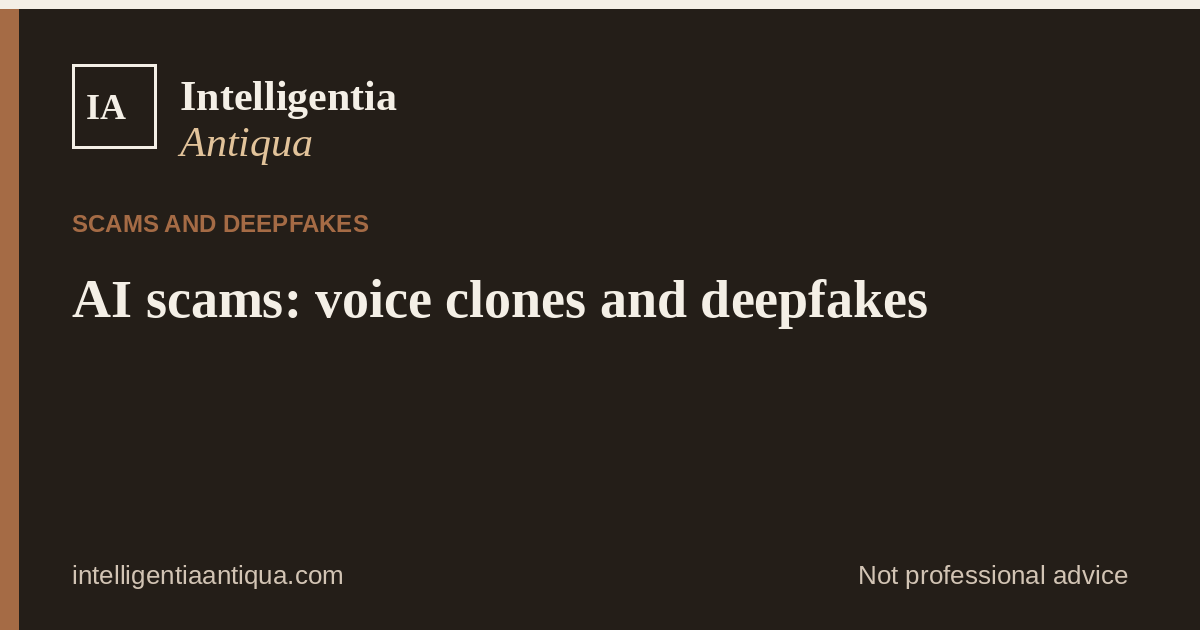
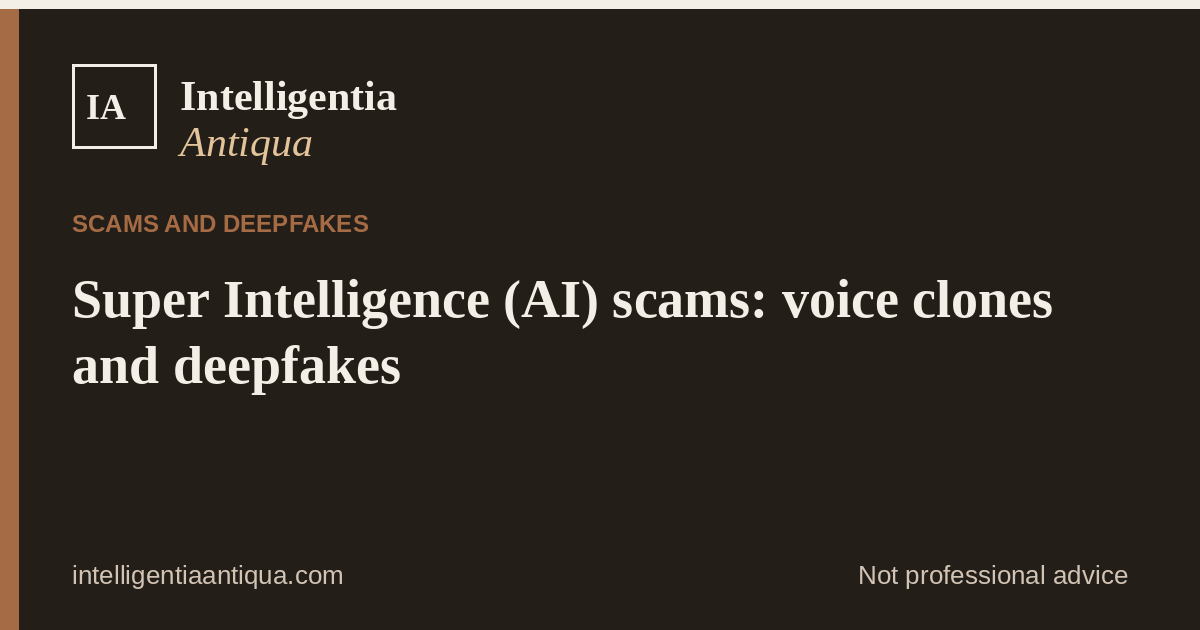
Lead the site with Super Intelligence (SI), still widely called AI. (#4)
Executive Order 14434 tells federal agencies to use SI for the statutory AI category. Visible copy, titles, and the glossary follow that name. URLs, quotations, source titles, and the Family AI Safety Kit name stay as they are.

Changed region(s): [[0.0617, 0.4222, 0.8942, 0.5127], [0.0617, 0.5429, 0.3392, 0.6333]]

diff --git a/src/data/glossary.ts b/src/data/glossary.ts
@@ -42,8 +42,9 @@ export const glossary: GlossaryTerm[] = [
     sourceTitle: oecd,
     sourceUrl: oecdUrl,
     related: [
-      { label: 'What is AI, in plain English?', href: '/articles/what-is-ai/' },
-      { label: 'AI Basics', href: '/pillars/ai-basics/' },
+      { label: 'Super Intelligence (SI)', href: '/glossary/#super-intelligence' },
+      { label: 'What is Super Intelligence (AI)?', href: '/articles/what-is-ai/' },
+      { label: 'Super Intelligence (AI)', href: '/pillars/ai-basics/' },
     ],
   },
   {
@@ -53,7 +54,7 @@ export const glossary: GlossaryTerm[] = [
       'The International AI Safety Report 2026 defines automation bias as the tendency to rely on automated systems, including AI systems, without enough scrutiny of their outputs.',
     sourceTitle: report,
     sourceUrl: reportUrl,
-    related: [{ label: 'How to use an AI assistant safely', href: '/articles/how-to-use-an-ai-assistant/' }],
+    related: [{ label: 'How to use a Super Intelligence (AI) assistant safely', href: '/articles/how-to-use-an-ai-assistant/' }],
   },
   {
     id: 'confabulation',
@@ -62,7 +63,7 @@ export const glossary: GlossaryTerm[] = [
       'NIST’s Generative AI Profile defines confabulation as the production of confidently stated but erroneous or false content. People also call this hallucination or fabrication. NIST notes that those everyday words can make a machine sound human, which is its own risk.',
     sourceTitle: nist,
     sourceUrl: nistUrl,
-    related: [{ label: 'What is AI, in plain English?', href: '/articles/what-is-ai/' }],
+    related: [{ label: 'What is Super Intelligence (AI)?', href: '/articles/what-is-ai/' }],
   },
   {
     id: 'deepfake',
@@ -72,7 +73,7 @@ export const glossary: GlossaryTerm[] = [
     sourceTitle: report,
     sourceUrl: reportUrl,
     related: [
-      { label: 'AI scams: voice clones and deepfakes', href: '/articles/ai-scams-voice-clones-and-deepfakes/' },
+      { label: 'Super Intelligence (AI) scams: voice clones and deepfakes', href: '/articles/ai-scams-voice-clones-and-deepfakes/' },
     ],
   },
   {
@@ -82,7 +83,7 @@ export const glossary: GlossaryTerm[] = [
       'The International AI Safety Report 2026 uses “general-purpose AI” for models or systems that can perform a variety of tasks, rather than being built for one specific function. A chess-only program is the contrast: the report calls that narrow AI.',
     sourceTitle: report,
     sourceUrl: reportUrl,
-    related: [{ label: 'AI Basics', href: '/pillars/ai-basics/' }],
+    related: [{ label: 'Super Intelligence (AI)', href: '/pillars/ai-basics/' }],
   },
   {
     id: 'generative-ai',
@@ -91,7 +92,7 @@ export const glossary: GlossaryTerm[] = [
       'The International AI Safety Report 2026 defines generative AI as AI that can create new content, such as text, images, or audio, by learning patterns from existing data and producing outputs that reflect those patterns.',
     sourceTitle: report,
     sourceUrl: reportUrl,
-    related: [{ label: 'What is AI, in plain English?', href: '/articles/what-is-ai/' }],
+    related: [{ label: 'What is Super Intelligence (AI)?', href: '/articles/what-is-ai/' }],
   },
   {
     id: 'hallucination',
@@ -127,7 +128,7 @@ export const glossary: GlossaryTerm[] = [
       'The International AI Safety Report 2026 defines machine learning as a subset of AI focused on developing algorithms and models that learn from data without being explicitly programmed for each case.',
     sourceTitle: report,
     sourceUrl: reportUrl,
-    related: [{ label: 'AI Basics', href: '/pillars/ai-basics/' }],
+    related: [{ label: 'Super Intelligence (AI)', href: '/pillars/ai-basics/' }],
   },
   {
     id: 'model',
@@ -136,7 +137,7 @@ export const glossary: GlossaryTerm[] = [
       'In the same report, a model is a computer program that processes inputs to perform tasks such as prediction, classification, or generation. Most models today learn from data rather than being written as a list of hand-made rules. A system is the model plus the other pieces around it, such as a chat window.',
     sourceTitle: report,
     sourceUrl: reportUrl,
-    related: [{ label: 'What is AI, in plain English?', href: '/articles/what-is-ai/' }],
+    related: [{ label: 'What is Super Intelligence (AI)?', href: '/articles/what-is-ai/' }],
   },
   {
     id: 'narrow-ai',
@@ -161,7 +162,21 @@ export const glossary: GlossaryTerm[] = [
       'The International AI Safety Report 2026 defines a prompt as an input to an AI system, such as text or an image, that the system processes to generate an output.',
     sourceTitle: report,
     sourceUrl: reportUrl,
-    related: [{ label: 'How to use an AI assistant safely', href: '/articles/how-to-use-an-ai-assistant/' }],
+    related: [{ label: 'How to use a Super Intelligence (AI) assistant safely', href: '/articles/how-to-use-an-ai-assistant/' }],
+  },
+  {
+    id: 'super-intelligence',
+    term: 'Super Intelligence (SI)',
+    definition:
+      'Executive Order 14434, “Inaugurating the Era of Super Intelligence,” was signed on 29 September 2026 and published in the Federal Register on 2 October 2026 at 91 FR 63129. It directs executive departments and agencies, to the maximum extent permitted by law, to use “Super Intelligence” and “SI” in place of “Artificial Intelligence” and “AI” in official correspondence, public communications, websites, reports, policy documents, and other non-statutory documents. For purposes of the order, those terms mean the technologies and systems encompassed by “artificial intelligence” as defined in 15 U.S.C. § 9401(3). That definition governs the order unless a later presidential action or an Act of Congress supersedes it. Section 2 gives the instruction to those agencies. A different research use of a similar word is explained on the Safety Debates page.',
+    sourceTitle: 'Executive Order 14434 of September 29, 2026: Inaugurating the Era of Super Intelligence',
+    sourceUrl:
+      'https://www.federalregister.gov/documents/2026/10/02/2026-20321/inaugurating-the-era-of-super-intelligence',
+    related: [
+      { label: 'What is Super Intelligence (AI)?', href: '/articles/what-is-ai/' },
+      { label: 'Safety Debates', href: '/pillars/safety-debates/' },
+      { label: 'Artificial intelligence', href: '/glossary/#artificial-intelligence' },
+    ],
   },
   {
     id: 'training',

diff --git a/src/data/pillars.ts b/src/data/pillars.ts
@@ -1,24 +1,24 @@
 export const pillars = [
   {
     id: 'ai-basics',
-    title: 'AI Basics',
+    title: 'Super Intelligence (AI)',
     summary: 'What the machine actually is, which words earn their keep, and which pitches do not.',
     description:
-      'Plain-English explanations of artificial intelligence, models, and the words beginners meet first.',
+      'Plain-English explanations of Super Intelligence (SI), still widely called AI, plus models and the words beginners meet first.',
   },
   {
     id: 'using-assistants',
     title: 'Using Assistants',
     summary: 'Use the tool. Do not hand it your judgment.',
     description:
-      'A beginner guide to ChatGPT-style assistants: what to ask, what to leave out, and how to check a reply.',
+      'A beginner guide to ChatGPT-style assistants: what to ask, what to leave out, and how to check a Super Intelligence (AI) reply.',
   },
   {
     id: 'privacy-and-data',
     title: 'Privacy & Data',
     summary: 'What you type can outlive the chat. The settings are yours to flip.',
     description:
-      'What consumer AI apps may do with chats, and the habits that keep private information out of the box.',
+      'What a chat with Super Intelligence (SI), still called AI, may do with your words, and the habits that keep private information out of the box.',
   },
   {
     id: 'scams-and-deepfakes',
@@ -37,9 +37,10 @@ export const pillars = [
   {
     id: 'safety-debates',
     title: 'Safety Debates',
-    summary: 'The loud word is superintelligence. The careful report uses tighter ones, and experts still disagree.',
+    summary:
+      'The executive order’s Super Intelligence is today’s statutory AI. Research superintelligence is a hypothetical system beyond human performance.',
     description:
-      'A fair account of advanced-AI debates, using the terms in the International AI Safety Report.',
+      'How Executive Order 14434 uses Super Intelligence for today’s AI, and how research uses superintelligence for a hypothetical system no human can match.',
   },
 ] as const;
 

diff --git a/src/data/site.ts b/src/data/site.ts
@@ -7,7 +7,7 @@ export const site = {
   tagline: 'Your mind. The source in the margin.',
   founder: 'Creator Rogenie',
   description:
-    'Intelligentia Antiqua explains artificial intelligence in plain English for beginners, with a source on every factual claim.',
+    'Intelligentia Antiqua explains Super Intelligence (SI), still widely called AI, in plain English for beginners, with a source on every factual claim.',
   email: 'hello@intelligentiaantiqua.com',
   repo: 'https://github.com/rogenie/intelligentiaantiqua-site',
   author: 'Intelligentia Antiqua Research Desk',

diff --git a/scripts/generate-og.py b/scripts/generate-og.py
@@ -88,7 +88,7 @@ def mark(size, dest):
 
 
 PILLARS = {
-    "ai-basics": "AI basics",
+    "ai-basics": "SI basics",
     "using-assistants": "Using assistants",
     "privacy-and-data": "Privacy and data",
     "scams-and-deepfakes": "Scams and deepfakes",
@@ -116,7 +116,7 @@ def articles():
 
 
 def main():
-    card("AI, without the pitch.", "Plain English. Source attached.", OG / "default.png")
+    card("Super Intelligence, without the pitch.", "SI, still widely called AI.", OG / "default.png")
     for title, slug, pillar in articles():
         card(title, pillar, OG / f"{slug}.png")
     public = ROOT / "public"

diff --git a/docs/brand-voice.md b/docs/brand-voice.md
@@ -36,6 +36,14 @@ The design stays classical: stone, parchment, serif type. It should also feel el
 
 The themes to return to, when they are true to the source: owning your time, your choices, and your mind. An assistant does not get to spend those for you. A pitch does not get to rush you.
 
+## Terminology
+
+Lead with Super Intelligence (SI). On the first mention on a page, write “Super Intelligence (SI), still widely called AI,” then say SI. Keep AI in titles a searcher would type, as in “What is Super Intelligence (AI)?” Use AI again when the sentence is about a source’s own word, a product name, or a quotation. Do not change URLs or slugs.
+
+The name follows [Executive Order 14434](https://www.federalregister.gov/documents/2026/10/02/2026-20321/inaugurating-the-era-of-super-intelligence), “Inaugurating the Era of Super Intelligence,” signed 29 September 2026 and published in the Federal Register on 2 October 2026 (FR Doc. 2026-20321, 91 FR 63129). The order tells federal executive agencies to use SI instead of AI, to the maximum extent permitted by law, in official non-statutory documents. For the order, SI means the systems already covered by “artificial intelligence” in 15 U.S.C. § 9401(3). The instruction is to those agencies. It does not require private companies to rename products or stop saying AI. [TechRepublic’s account](https://www.techrepublic.com/article/news-trump-super-intelligence-ai-executive-order/) is the secondary source for that private-company limit. Link the order when a page states those facts.
+
+Do not use the order’s term for the research idea. In research, superintelligence (often one word, or “artificial superintelligence”) means a hypothetical system beyond human performance. The order’s SI is the statutory category, the systems already called AI. Say that split on any page about the debate, and cite both the order and a research source. Do not alter a quotation, a source’s title, or a product name to force the new term. The Family AI Safety Kit stays the product name. ChatGPT stays ChatGPT.
+
 ## What a guide is allowed to sound like
 
 - Opening: a real moment, then the point, in her cadence.

diff --git a/docs/content-calendar.md b/docs/content-calendar.md
@@ -8,7 +8,7 @@ The three launch guides are already in the repo: what AI is, how to use an assis
 
 | Day | Guide | Pillar | Why this one |
 | --- | --- | --- | --- |
-| Mon 23 Nov 2026 | What machine learning is, without the math | AI Basics | The glossary defines it. A full page can show “learns from examples” with one diagram of rules versus examples. |
+| Mon 23 Nov 2026 | What machine learning is, without the math | Super Intelligence (AI) | The glossary defines it. A full page can show “learns from examples” with one diagram of rules versus examples. |
 | Wed 25 Nov 2026 | What never to paste into a chatbot | Privacy & Data | The hub already cites OpenAI’s controls and the NCSC. The guide is the checklist. |
 | Fri 27 Nov 2026 | What “hallucination” means | Using Assistants | NIST’s word is confabulation. One page, one diagram, no new statistic. |
 | Mon 30 Nov 2026 | Will AI take jobs? What the 2026 report actually says | Work & Money | Stay inside the report: economists disagree; early evidence shows no overall employment effect, with some signs of weaker demand for early-career workers in some exposed jobs. |
@@ -21,7 +21,7 @@ Each file still needs its own fact-check against the pages it cites. If a help p
 
 These are seeds for the social desk. They are not approved posts.
 
-- What is AI: “A chatbot is a machine that turns what you typed into a likely next sentence. Likely is not the same as checked.” Link the short URL for the guide once it is live.
+- What is Super Intelligence (AI): “A chatbot is a machine that turns what you typed into a likely next sentence. Likely is not the same as checked.” Link the short URL for the guide once it is live.
 - Scams: “A study cited in the 2026 International AI Safety Report found listeners took voice clones for the real speaker most of the time. Hang up. Call the number you already had.”
 - Assistants: “On personal ChatGPT plans, training on your chats is on until you turn it off. Business plans are different. Read the setting, then read a source that is not the chat.”
 

diff --git a/README.md b/README.md
@@ -1,6 +1,6 @@
 # Intelligentia Antiqua
 
-Plain-English AI guides for complete beginners. Intelligentia Antiqua is an independent research desk: we explain what standards bodies, regulators, and scientific reviews say, and we link the source on every factual claim.
+Plain-English Super Intelligence (SI) guides for complete beginners, still widely called AI. Intelligentia Antiqua is an independent research desk: we explain what standards bodies, regulators, and scientific reviews say, and we link the source on every factual claim.
 
 The name is Latin for “ancient intelligence.” The site is a static [Astro](https://astro.build) project. Articles are Markdown or MDX files in `src/content/articles`, so a new guide can arrive as a pull request.
 
